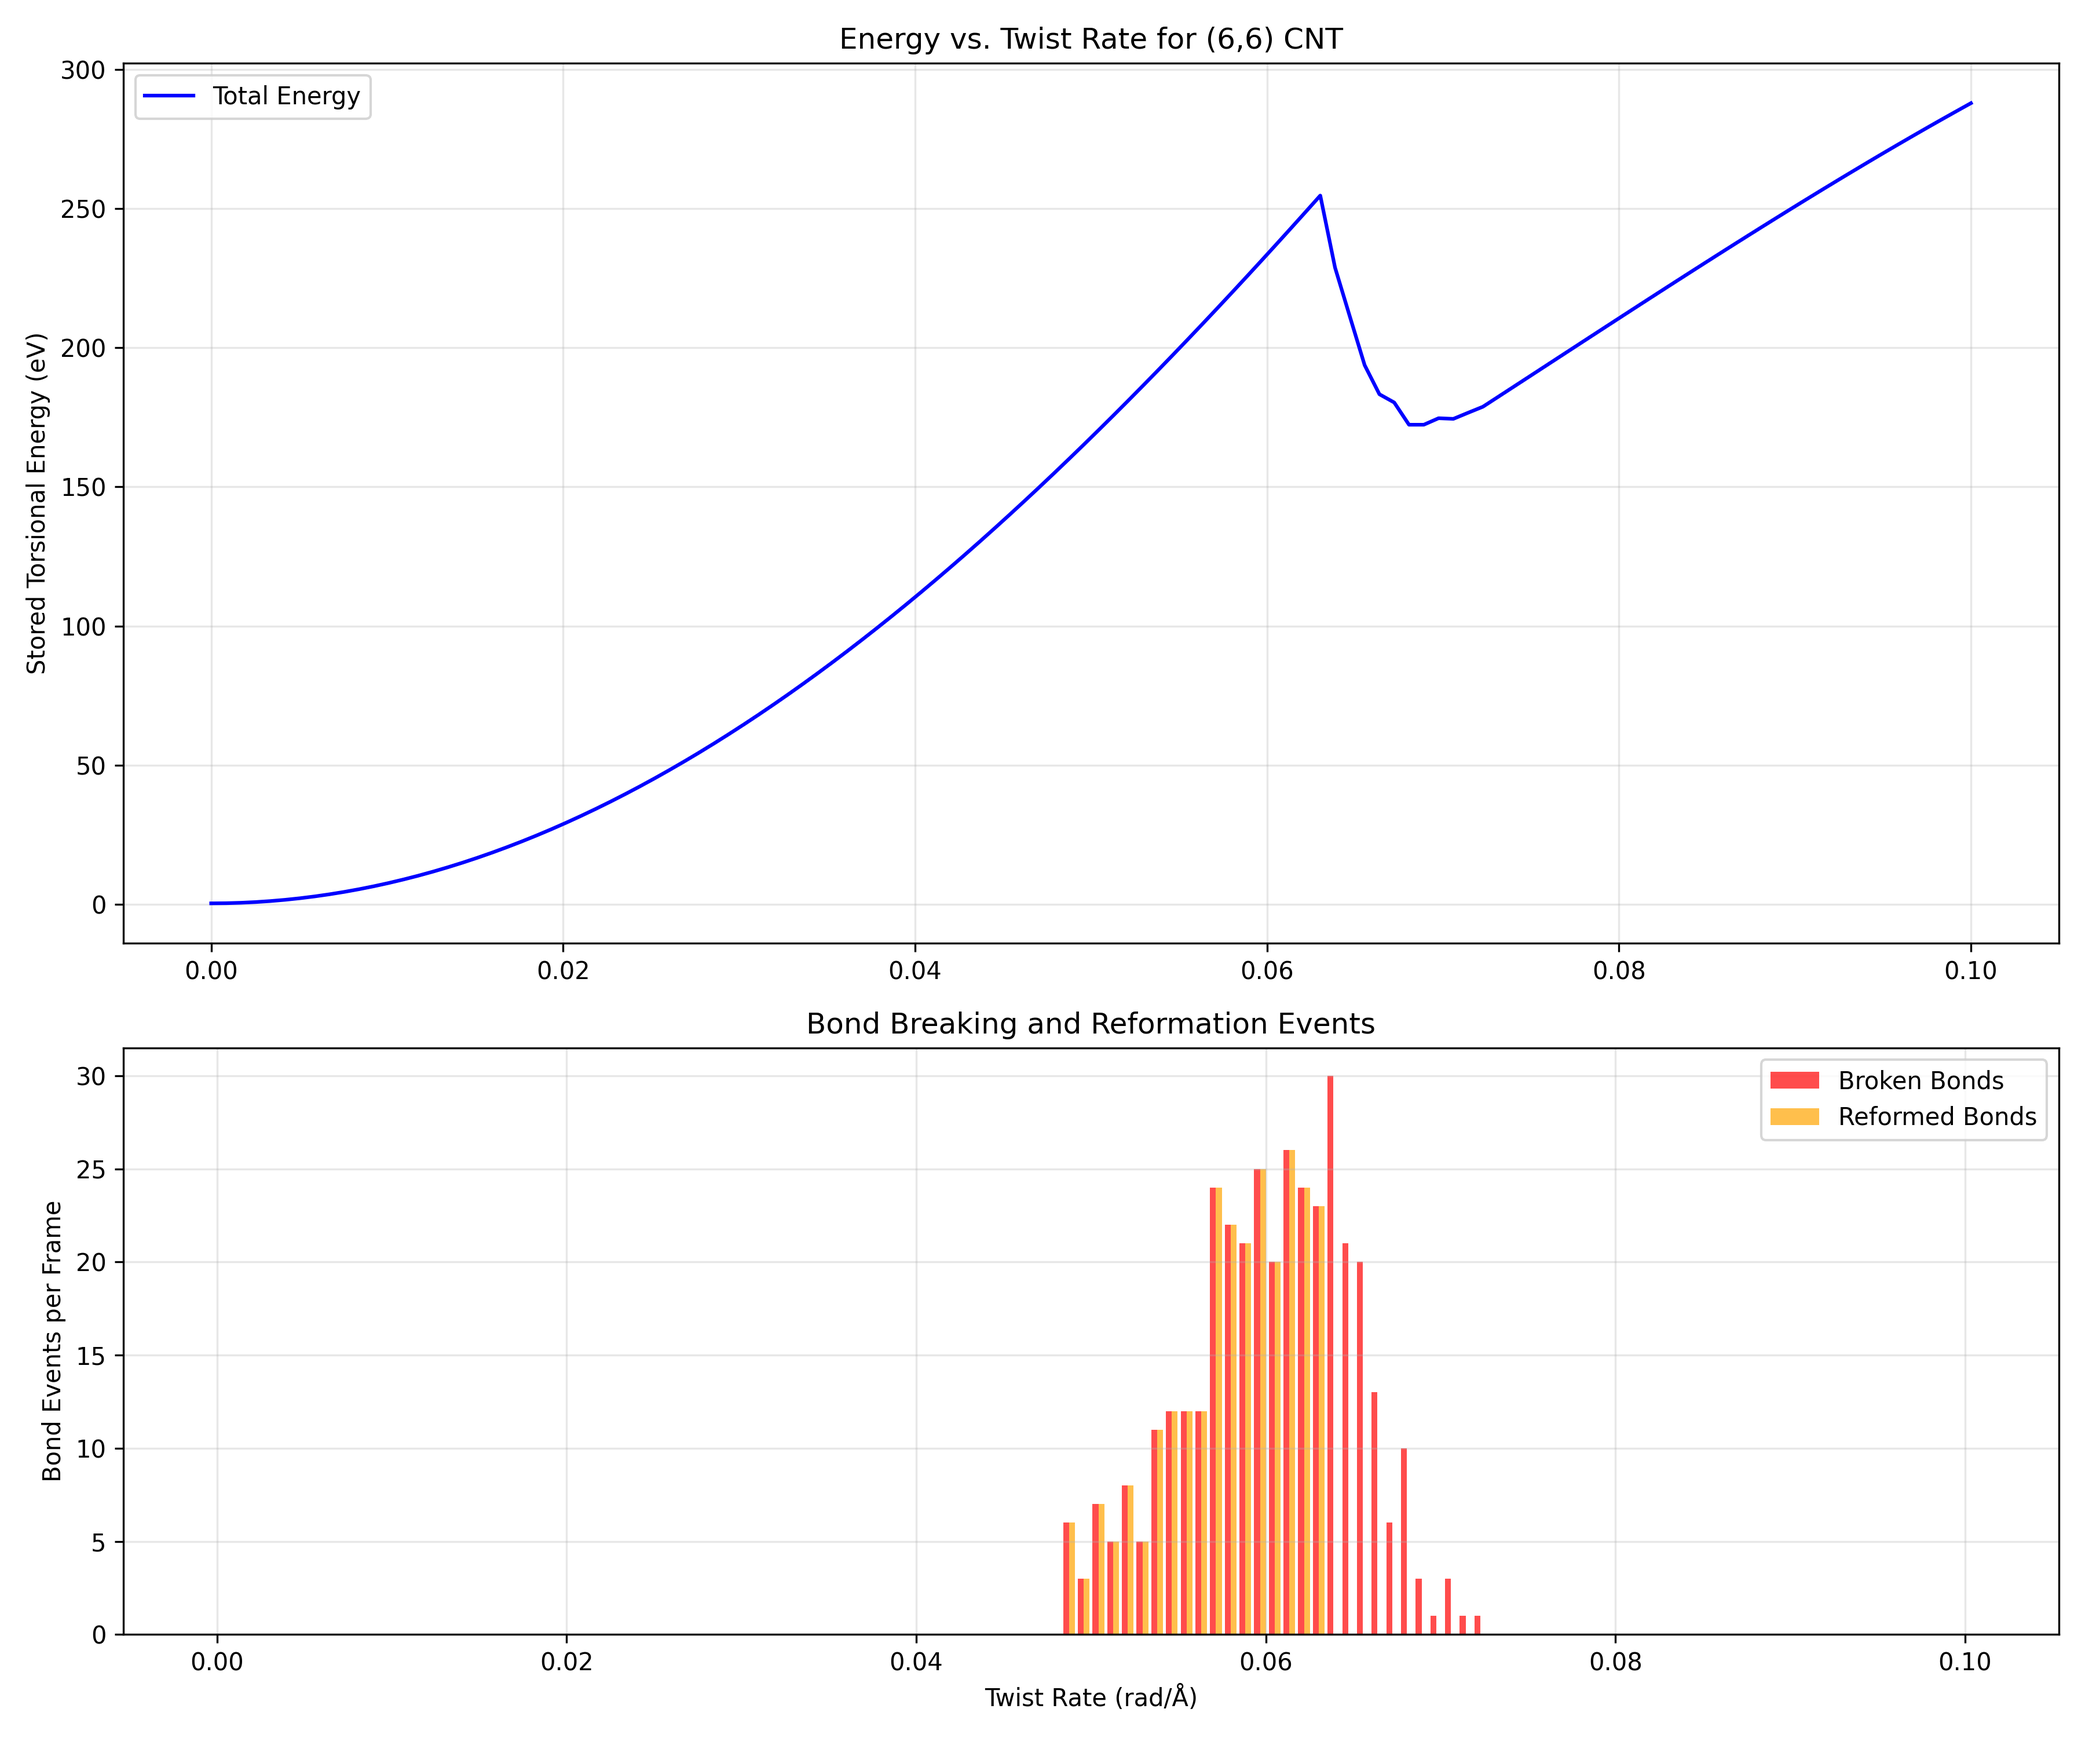
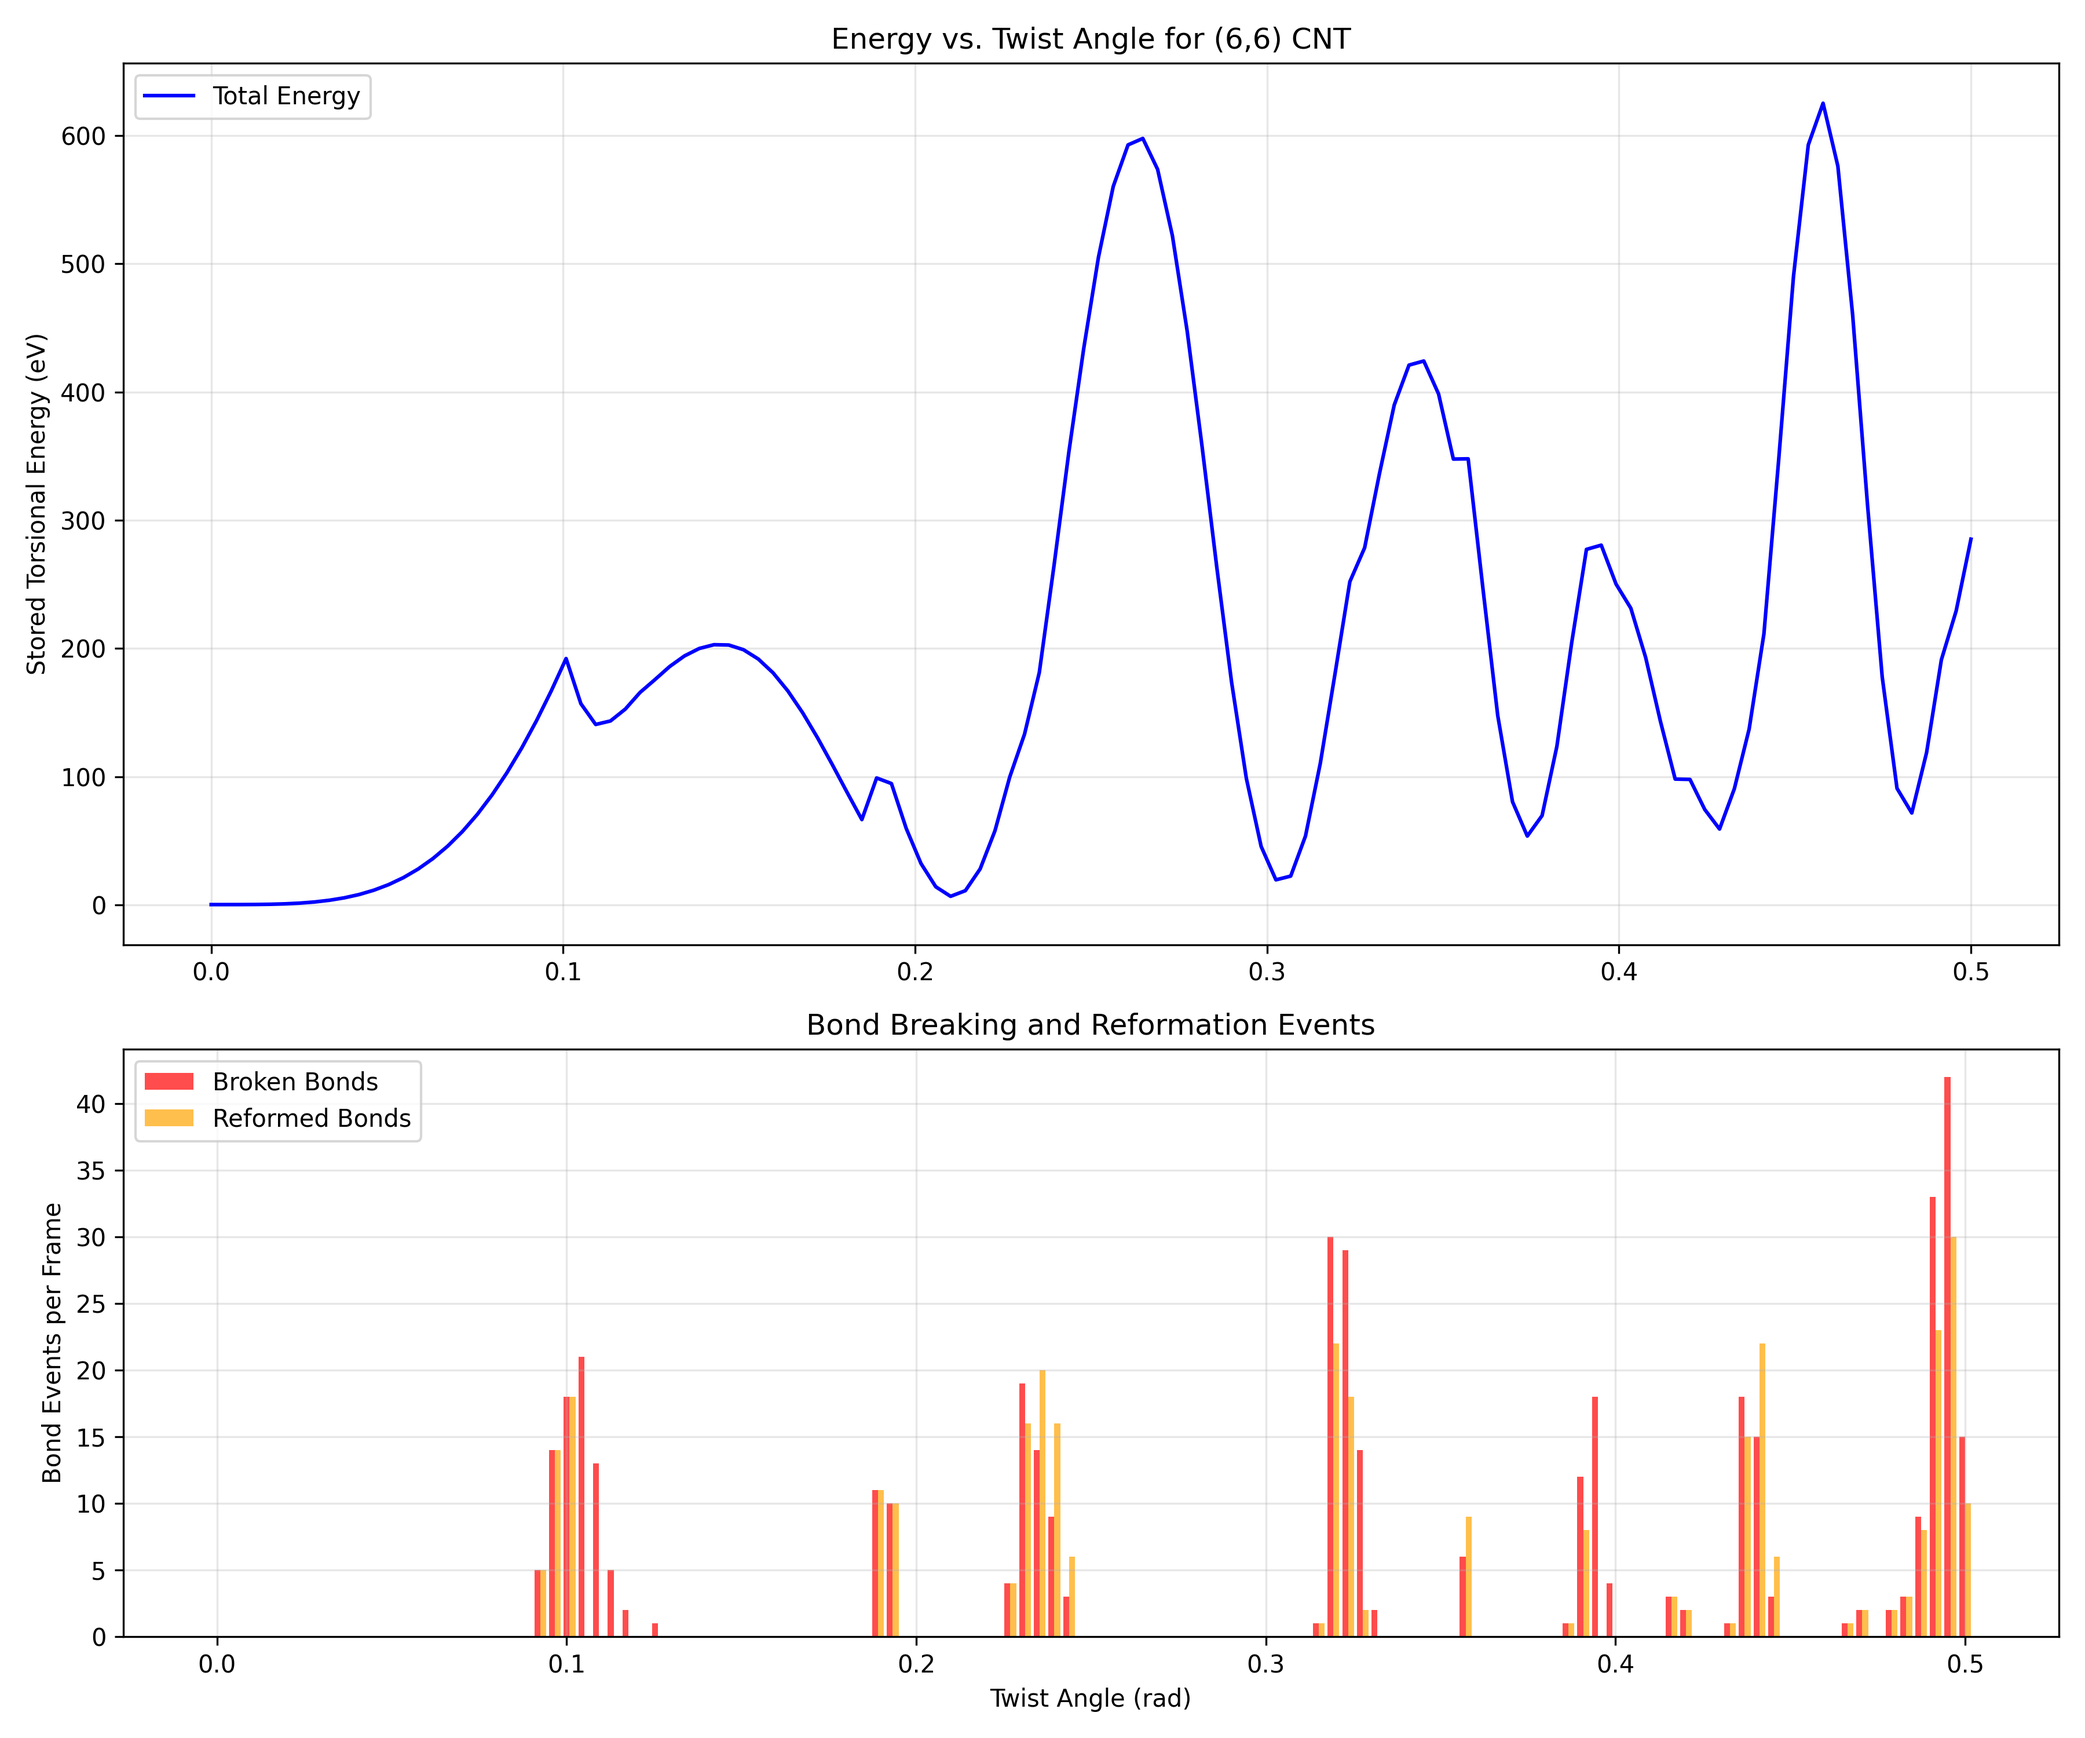
extension 1

diff --git a/CNT_energy_storage/main.py b/CNT_energy_storage/main.py
@@ -10,35 +10,89 @@ from matplotlib.cm import coolwarm
 n = 6; m = 6; length = 10
 D_e = 7.37; a = 2.625; r0 = 1.42
 num_frames = 120
-max_twist_rate = 0.1  # rad/Å
-twist_rates = np.linspace(0, max_twist_rate, num_frames)
+max_twist_angle = 0.5  # radians total twist applied to ends
+twist_angles = np.linspace(0, max_twist_angle, num_frames)
 bond_break_distance = 1.75  # Å
 bond_reform_distance = 1.6   # Å
 bond_break_region = 0.2     # Å
 cutoff = 2.0                # Å
+dt = 0.001                   # time step for dynamics
+damping = 0.9               # damping coefficient
+mass = 12.0                 # atomic mass (carbon)
 
 def morse_potential(r):
     return D_e * (1 - np.exp(-a * (r - r0)))**2
+
+def morse_force(r):
+    if r < 0.1:
+        return 0
+    exp_term = np.exp(-a * (r - r0))
+    return 2 * D_e * a * exp_term * (1 - exp_term) / r
 
 ENERGY_AT_BREAK = morse_potential(bond_break_distance)
 
 def build_cnt(n, m, length):
     return nanotube(n, m, length, bond=r0, vacuum=10.0)
 
-def twist_cnt(cnt: Atoms, twist_rate):
+def apply_boundary_twist(cnt: Atoms, twist_angle):
     positions = cnt.get_positions()
+    z_coords = positions[:, 2]
+    z_min, z_max = np.min(z_coords), np.max(z_coords)
+    z_range = z_max - z_min
+    
     x_center, y_center = np.mean(positions[:, :2], axis=0)
-    z_min = np.min(positions[:, 2])
     
     new_positions = positions.copy()
     for i, (x, y, z) in enumerate(positions):
+        z_normalized = (z - z_min) / z_range if z_range > 0 else 0
+        
+        if z_normalized < 0.1:  # Bottom 10% - fixed
+            theta = 0
+        elif z_normalized > 0.9:  # Top 10% - full twist
+            theta = twist_angle
+        else:  # Middle section - linear interpolation
+            theta = twist_angle * (z_normalized - 0.1) / 0.8
+        
         x_rel, y_rel = x - x_center, y - y_center
-        theta = twist_rate * (z - z_min)
         cos_t, sin_t = np.cos(theta), np.sin(theta)
         x_new = cos_t * x_rel - sin_t * y_rel + x_center
         y_new = sin_t * x_rel + cos_t * y_rel + y_center
         new_positions[i] = [x_new, y_new, z]
+    
     cnt.set_positions(new_positions)
+    return cnt
+
+def relax_structure(cnt: Atoms, bonds, num_steps=50):
+    positions = cnt.get_positions()
+    velocities = np.zeros_like(positions)
+    
+    for step in range(num_steps):
+        forces = np.zeros_like(positions)
+        
+        for bond in bonds:
+            i, j = bond['indices']
+            r_vec = positions[j] - positions[i]
+            r = np.linalg.norm(r_vec)
+            
+            if r > 0.1:
+                f_magnitude = morse_force(r)
+                f_vec = f_magnitude * r_vec / r
+                forces[i] += f_vec
+                forces[j] -= f_vec
+        
+        velocities = damping * velocities + dt * forces / mass
+        positions += dt * velocities
+        
+        z_coords = positions[:, 2]
+        z_min, z_max = np.min(z_coords), np.max(z_coords)
+        z_range = z_max - z_min
+        
+        for i in range(len(positions)):
+            z_normalized = (positions[i, 2] - z_min) / z_range if z_range > 0 else 0
+            if z_normalized < 0.1 or z_normalized > 0.9:
+                velocities[i] *= 0.1
+    
+    cnt.set_positions(positions)
     return cnt
 
 def compute_energy(cnt: Atoms, cutoff, previous_bonds=None):
@@ -97,30 +151,37 @@ if __name__ == "__main__":
     base_cnt = build_cnt(n=n, m=m, length=length)
     animation_frames, total_energies, bond_counts, broken_events, reformed_events = [], [], [], [], []
     previous_bonds = None
+    current_cnt = base_cnt.copy()
 
-    for i, rate in enumerate(twist_rates):
-        cnt_twisted = base_cnt.copy()
-        cnt_twisted = twist_cnt(cnt_twisted, twist_rate=rate)
+    for i, twist_angle in enumerate(twist_angles):
+        cnt_twisted = current_cnt.copy()
+        cnt_twisted = apply_boundary_twist(cnt_twisted, twist_angle)
+        
         energy, active_bonds, drawable_bonds, stats = compute_energy(cnt_twisted, cutoff=cutoff, previous_bonds=previous_bonds)
         
-        total_energies.append(energy)
-        bond_counts.append(stats['total'])
-        broken_events.append(stats['broken'])
-        reformed_events.append(stats['reformed'])
-        animation_frames.append({'atoms': cnt_twisted, 'bonds': drawable_bonds, 'stats': stats})
-        previous_bonds = active_bonds
+        cnt_relaxed = relax_structure(cnt_twisted, active_bonds)
+        energy_relaxed, active_bonds_relaxed, drawable_bonds_relaxed, stats_relaxed = compute_energy(cnt_relaxed, cutoff=cutoff, previous_bonds=active_bonds)
+        
+        total_energies.append(energy_relaxed)
+        bond_counts.append(stats_relaxed['total'])
+        broken_events.append(stats_relaxed['broken'])
+        reformed_events.append(stats_relaxed['reformed'])
+        animation_frames.append({'atoms': cnt_relaxed, 'bonds': drawable_bonds_relaxed, 'stats': stats_relaxed})
+        
+        current_cnt = cnt_relaxed.copy()
+        previous_bonds = active_bonds_relaxed
         
         if i % 10 == 0:
-            print(f"Frame {i}/{num_frames}: E={energy:.2f} eV, Bonds={stats['total']}, Broken={stats['broken']}, Reformed={stats['reformed']}")
+            print(f"Frame {i}/{num_frames}: E={energy_relaxed:.2f} eV, Bonds={stats_relaxed['total']}, Broken={stats_relaxed['broken']}, Reformed={stats_relaxed['reformed']}")
 
     fig_plot, (ax1, ax2) = plt.subplots(2, 1, figsize=(12, 10), gridspec_kw={'height_ratios': [3, 2]})
-    ax1.plot(twist_rates, total_energies, 'b-', label='Total Energy')
-    ax1.set_ylabel("Stored Torsional Energy (eV)"); ax1.set_title(f"Energy vs. Twist Rate for ({n},{m}) CNT"); ax1.grid(True, alpha=0.3); ax1.legend()
+    ax1.plot(twist_angles, total_energies, 'b-', label='Total Energy')
+    ax1.set_ylabel("Stored Torsional Energy (eV)"); ax1.set_title(f"Energy vs. Twist Angle for ({n},{m}) CNT"); ax1.grid(True, alpha=0.3); ax1.legend()
     
-    bar_width = (twist_rates[1] - twist_rates[0]) * 0.4
-    ax2.bar(twist_rates - bar_width/2, broken_events, width=bar_width, color='red', alpha=0.7, label='Broken Bonds')
-    ax2.bar(twist_rates + bar_width/2, reformed_events, width=bar_width, color='orange', alpha=0.7, label='Reformed Bonds')
-    ax2.set_xlabel("Twist Rate (rad/Å)"); ax2.set_ylabel("Bond Events per Frame"); ax2.set_title("Bond Breaking and Reformation Events"); ax2.grid(True, alpha=0.3); ax2.legend()
+    bar_width = (twist_angles[1] - twist_angles[0]) * 0.4
+    ax2.bar(twist_angles - bar_width/2, broken_events, width=bar_width, color='red', alpha=0.7, label='Broken Bonds')
+    ax2.bar(twist_angles + bar_width/2, reformed_events, width=bar_width, color='orange', alpha=0.7, label='Reformed Bonds')
+    ax2.set_xlabel("Twist Angle (rad)"); ax2.set_ylabel("Bond Events per Frame"); ax2.set_title("Bond Breaking and Reformation Events"); ax2.grid(True, alpha=0.3); ax2.legend()
     plt.tight_layout(); plt.savefig("CNT_energy_storage/output/energy_vs_twist.png", dpi=300)
     
     fig_anim = plt.figure(figsize=(12, 10))
@@ -159,7 +220,7 @@ if __name__ == "__main__":
             ax_anim.set_box_aspect([np.ptp(x), np.ptp(y), np.ptp(z)])
         
         stats = data['stats']
-        ax_anim.set_title(f"Twist Rate: {twist_rates[frame]:.4f} rad/Å\nBonds: {stats['total']}, Broken: {stats['broken']}, Reformed: {stats['reformed']}")
+        ax_anim.set_title(f"Twist Angle: {twist_angles[frame]:.3f} rad\nBonds: {stats['total']}, Broken: {stats['broken']}, Reformed: {stats['reformed']}")
 
     ani = FuncAnimation(fig_anim, update, frames=num_frames, interval=30, blit=False)
     plt.show()
